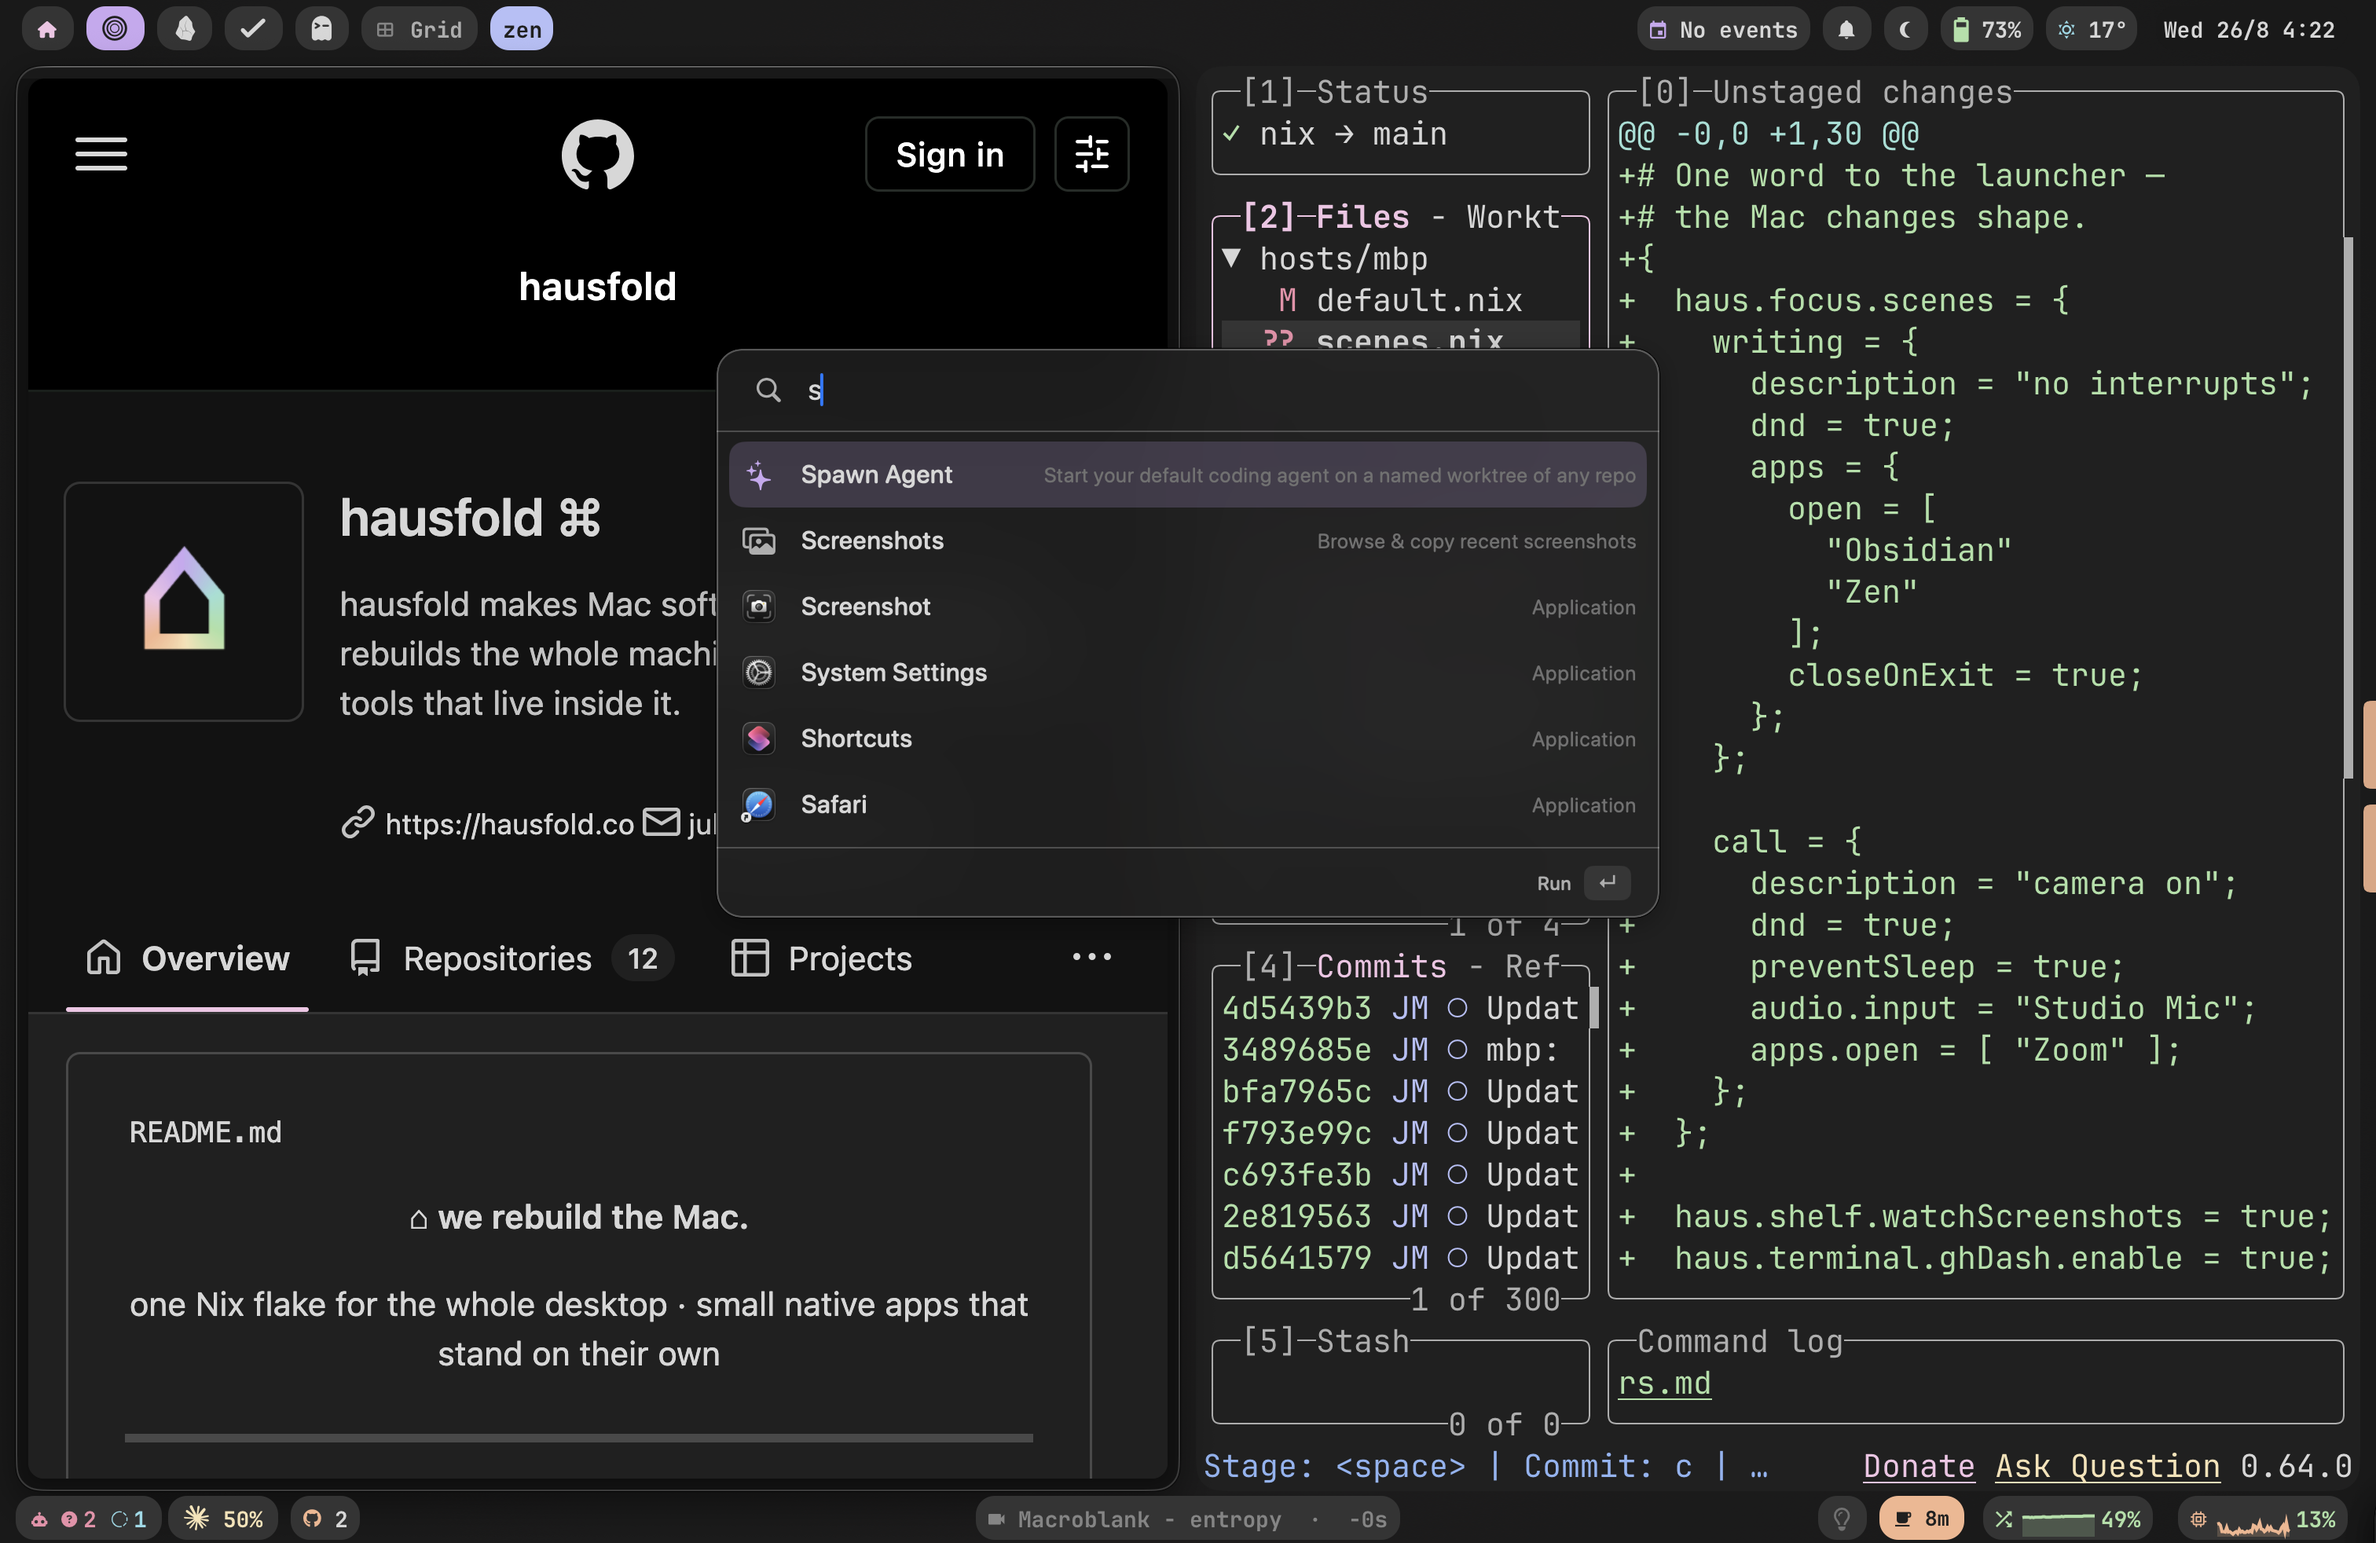
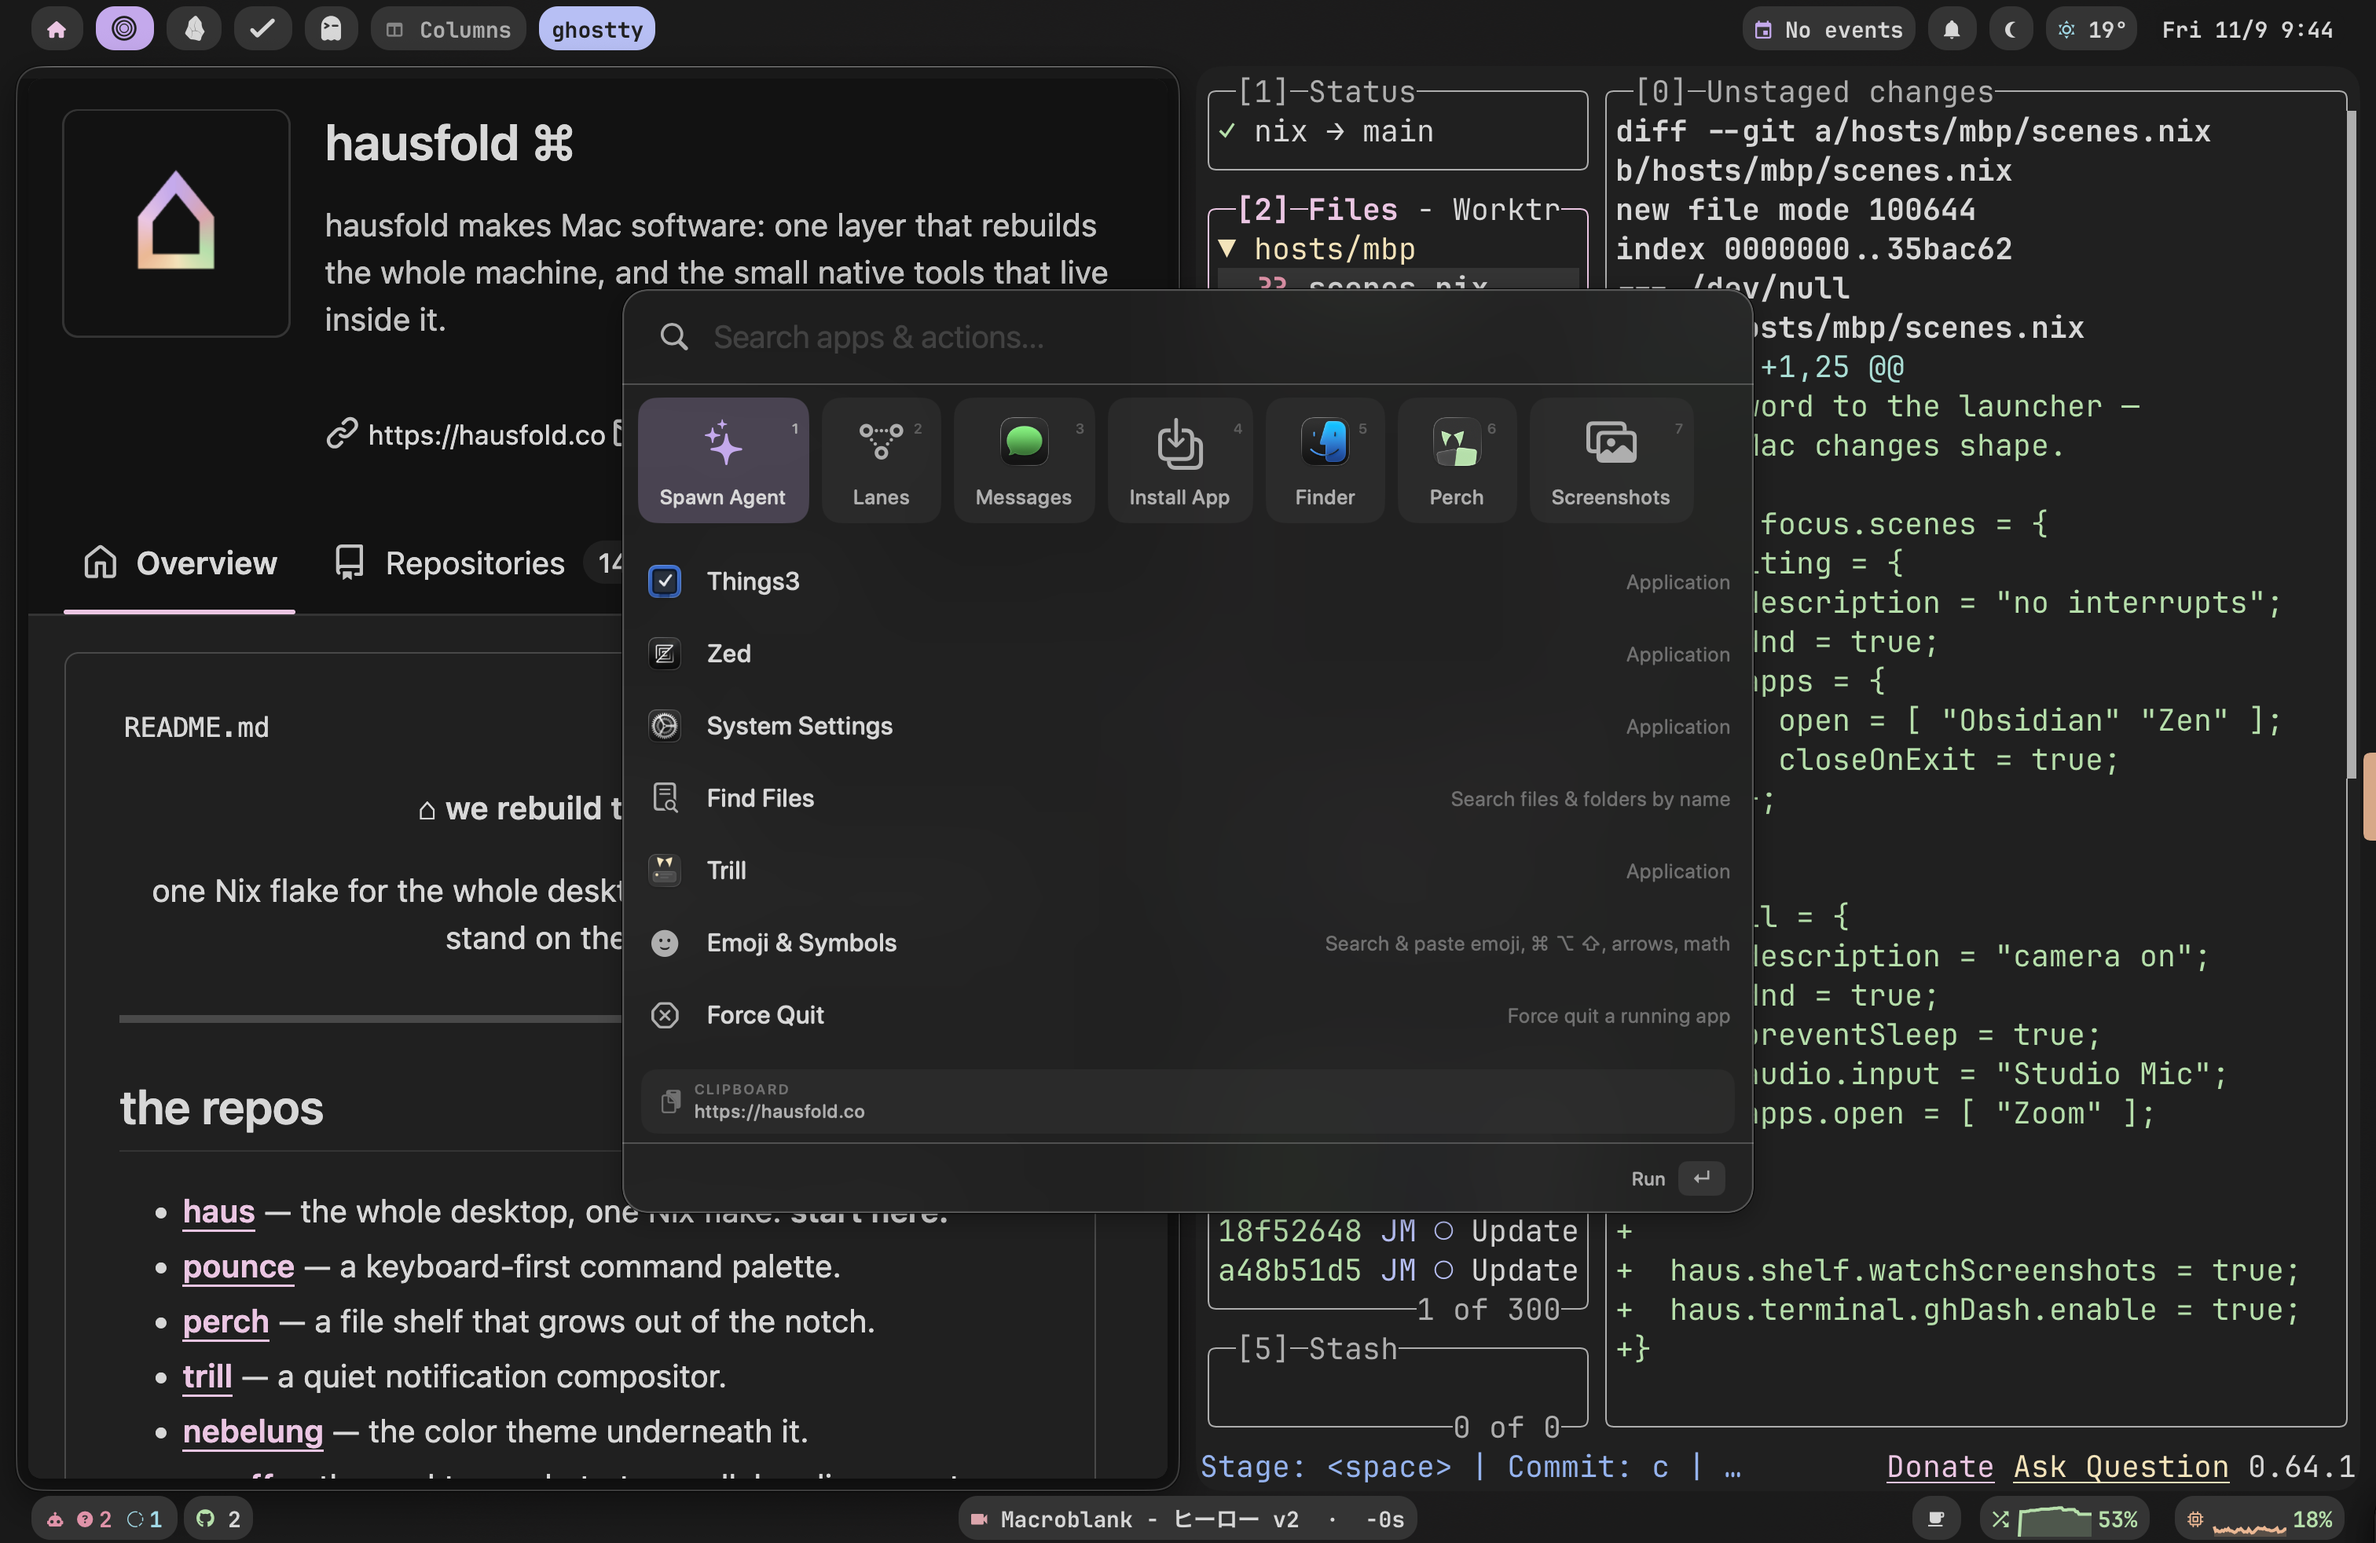
assets: reshoot the desktop hero to its own shot list (#697)
* assets: reshoot the desktop hero to its own shot list

The frame on disk failed four lines of the workshop's SHOTLIST row 2 at
once: a battery percentage in the menu bar, a clock reading 4:22, the
lazygit Commits panel in shot, and the org page's contact line half-covered
rather than out of frame.

The new one is taken by the workshop's script/shoot-hero.sh, which runs that
list as stages instead of leaving it to be remembered: the battery pill
hides, the personal pills come off both bars, the clipboard is chosen rather
than caught, and the capture is read back against the list before it lands.

The README follows the frame. Pounce is open on its empty palette now, where
the action tiles say what the launcher is for, and the clipboard's presence
in the palette is written down because it is part of the picture.

Claude-Session: https://claude.ai/code/session_01SLNBoKDMovggiZivLZYwUd

* assets: name the option, not just the file, and drop a link with no target

Three from the assurance pass. The shoot-hero.sh link pointed at a path on
workshop main that only exists on an open PR, which on a public repo is a
dead link and an ordering constraint between two PRs; naming the script
costs nothing and has neither. "An untracked scenes.nix" dropped the option
name the next clause depends on. And Zen is the biggest surface in the
frame, so the diff pane is the terminals largest pane, not the frames.

Claude-Session: https://claude.ai/code/session_01SLNBoKDMovggiZivLZYwUd

---------

diff --git a/assets/README.md b/assets/README.md
@@ -1,13 +1,13 @@
 # assets
 
-`hero.png` is the family's one desktop capture — reshot 2026-08-26, replacing a
-2026-07-09 frame that carried the retired **nebelhaus** wordmark and org, a
-username and an uptime. What it shows, left to right: **Zen** on
-`github.com/hausfold`, themed grey and pink by `haus.zen.userStyles`; **Ghostty**
-running lazygit over a working tree of `haus.focus.scenes`, so the frame's
-largest panel is the option surface itself; **Pounce** open mid-search on Spawn
-Agent; **Bar** along the top and bottom; **Nebelung**'s fog-grey across all
-of it. Windows are tiled by the `windows` room.
+`hero.png` is the family's one desktop capture, and the workshop's
+`script/shoot-hero.sh` is what takes it. What it shows, left to right: **Zen** on
+`github.com/hausfold`, themed grey and pink by `haus.zen.userStyles`;
+**Ghostty** running lazygit over an untracked `haus.focus.scenes` file
+(`scenes.nix`), so the terminal's largest pane is the option surface itself; **Pounce** open on its empty
+palette, where the action tiles are the row a stranger reads first; **Bar**
+along the top and bottom; **Nebelung**'s fog-grey across all of it. Windows are
+tiled by the `windows` room.
 
 ⚠ **Two things in that frame are the shooter's host file, not the desktop.**
 `haus.zen.userStyles` defaults to `[ ]` and `haus.bar.bottom.enable` to
@@ -16,9 +16,13 @@ unthemed browser and one bar, not a themed GitHub and two. Any launch-post copy
 that leads with this image has to say so, or the first reply is "I installed it
 and it doesn't look like that."
 
-The scene it answers to lives in the workshop's `assets/SHOTLIST.md`; the
-reshoot is tracked in `hausfold/ops`'s `todo/launch-phase-1.md`, which records
-the measurement in full. All three move together when it is reshot again.
+⚠ **The clipboard ships with the shot.** Pounce draws the top clipboard entry
+in its palette, so whatever was last copied is in frame. This one carries
+`https://hausfold.co`, chosen rather than caught.
+
+The scene it answers to lives in the workshop's `assets/SHOTLIST.md`, and
+`hausfold/ops`'s `todo/launch-phase-1.md` carries the measurement in full. All
+three move together when it is reshot.
 
 **Nothing renders any of these — not this repo, and not hausfold.co either.**
 The README leads with words alone, and hausfold.co ships no `<img>` at any of
